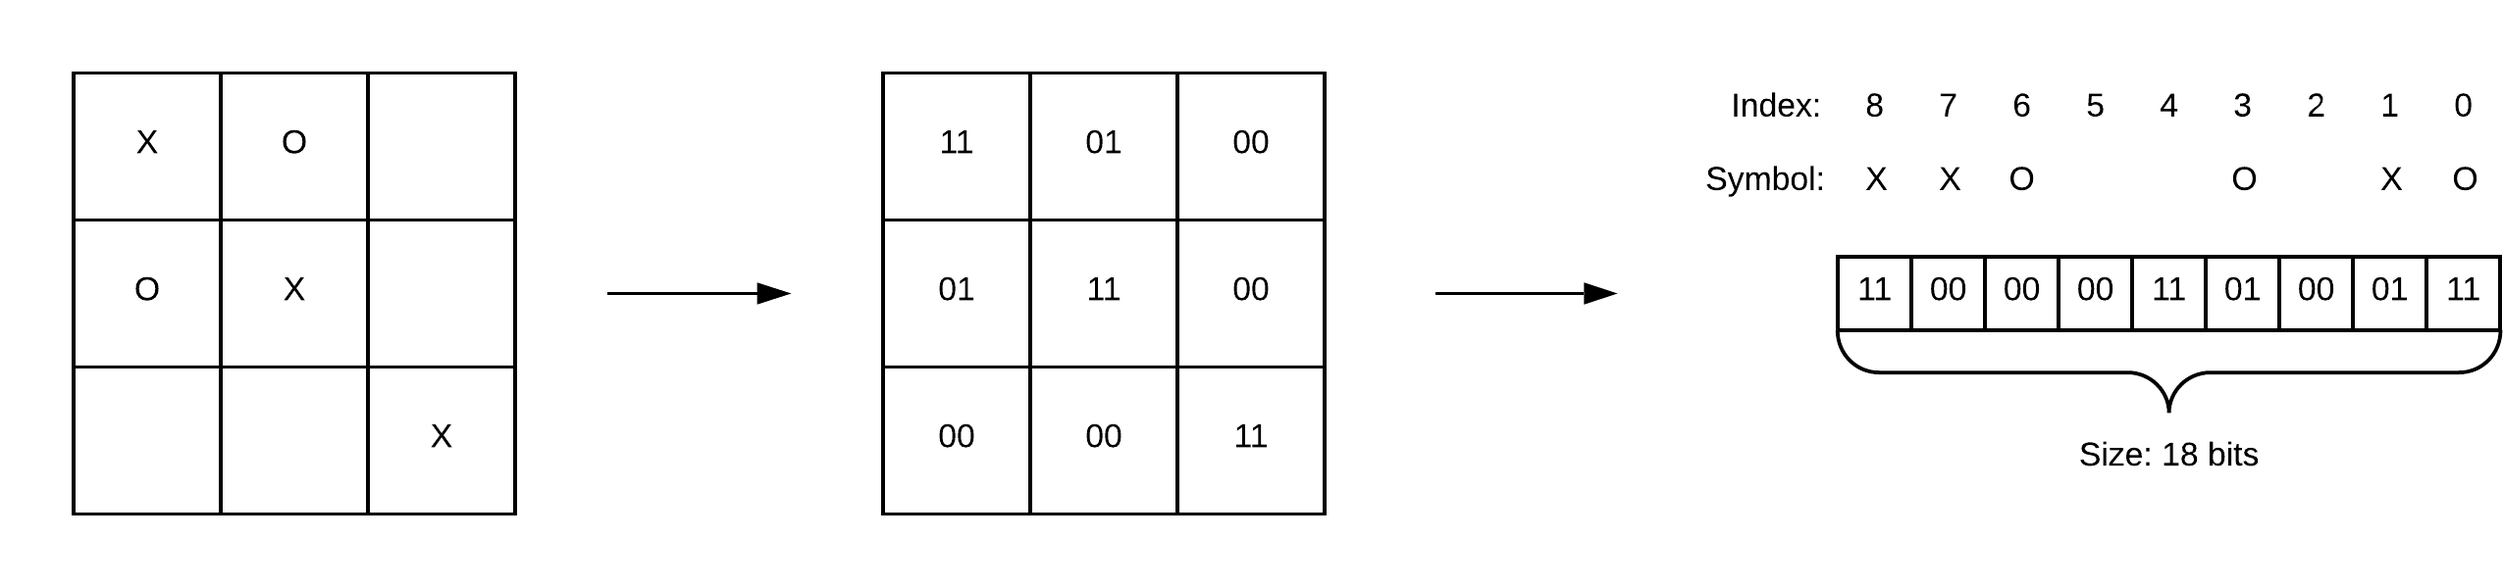
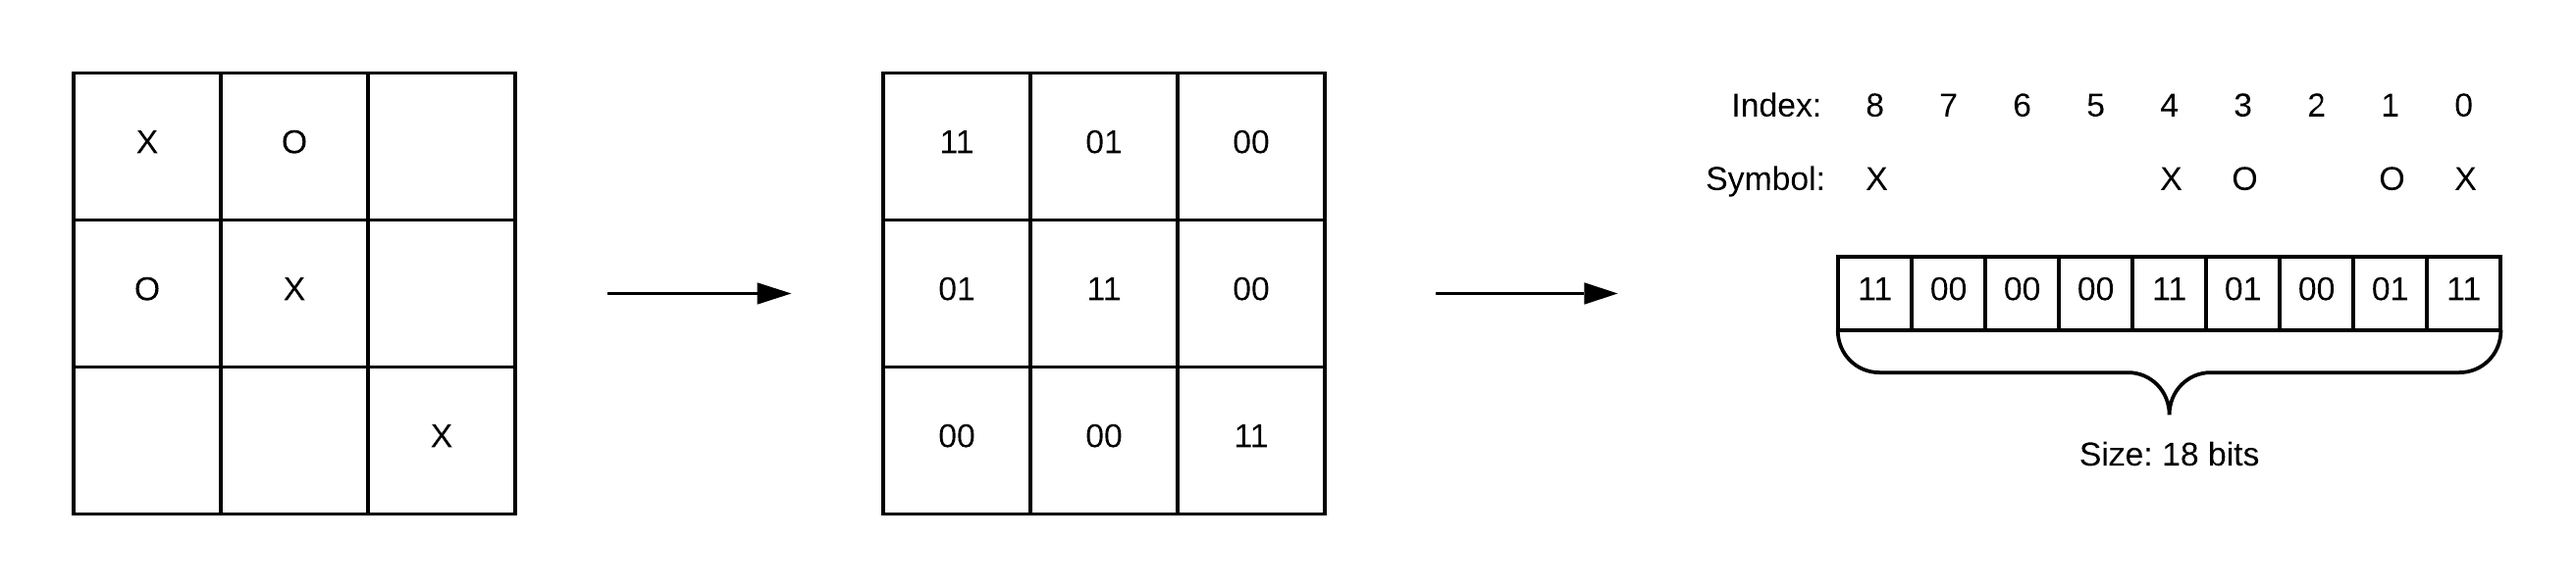
Docs: eval_grid: Correct diagonal 18 bit data structure illustration

diff --git a/docs/index.md b/docs/index.md
@@ -1,7 +1,7 @@
 # x86_64 Assembly Tic Tac Toe
 > This project will **only** run on x86_64/AMD64 Linux versions.
 
-![header](docs/img/header.png)
+![header](img/header.png)
 
 A Tic Tac Toe version that operates on a **18 bit** grid data structure, written in assembly and C.
 
